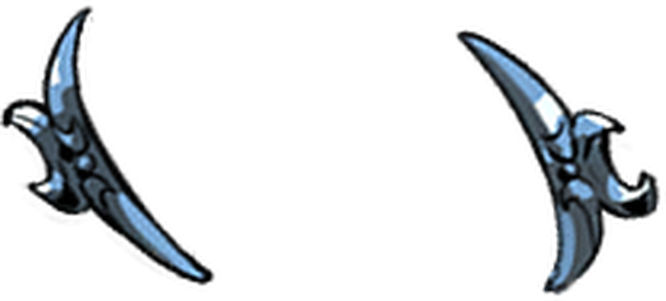
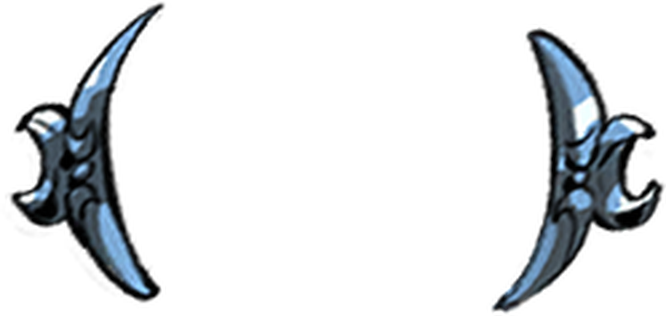
Un-warp the reward marker properly, measuring the squash off the disc
The wings were still warped. Laying the pair flat fixed the angle between the
two crescents and nothing about the crescents themselves, which are drawn
squashed for the plane they lie on like everything else in a world object.

There is no plain 2D copy of any of it in the game, and there was never going
to be: it is a world object and it ships the way it is drawn.

It is recoverable exactly, because the disc is a circle in truth, so whatever
ellipse it ships as is the transform. Second moments of its own alpha put the
major axis at 61.7 degrees with the minor at 0.631 of it, and undoing that,
R(t) diag(1, r) R(-t), takes the disc from 0.631 to 0.999. That is a circle to
three places, and it is the check that the transform is right rather than
merely plausible.

The wings take the same inverse because they are on the same plane. That is
what fixes the shape of each crescent rather than only the angle between them,
and it leaves the pair on a 12.7 degree axis, so one rotation finishes the
job. They come out as the mirrored pair a real Exit shows.

Neither number is hardcoded. Both are measured off the shipped alpha on every
run and the check is printed, so a patch that redraws the marker is followed
rather than fought. The moment maths is a closed form for a symmetric 2x2, so
this needs no linear algebra dependency.

Also worth recording: a front-facing cousin was on the shelf the whole time.
chrome/circle-filigree.png is UnlockTextCircleBacking out of GUI.pkg, and its
[…]

Changed region(s): [[0.6607, 0.0897, 1.0, 0.9867], [0.0, 0.0, 0.3303, 0.9568]]

diff --git a/scripts/reward-frame.ts b/scripts/reward-frame.ts
@@ -22,16 +22,28 @@
  * package. `deppth2`'s `-e` filter does not match these entries by any name
  * tried, so the package is extracted whole into `extracted/scriptsbase/`.
  *
- * **Both pieces are drawn in isometric and both have to be undone.** The disc
- * is an ellipse, 122 by 162, so it is a circle seen at an angle; squaring the
- * crop makes it round. The wings sit on an axis 25.7 degrees below horizontal,
- * measured from their own alpha rather than hardcoded, and on a real Exit they
- * read as left and right of the disc. Laying them flat is what makes the
- * composed marker look like the thing in the game.
+ * **Every piece ships pre-warped, and the warp has to be measured rather than
+ * guessed.** These are world objects, so the art is drawn already squashed for
+ * the plane it lies on, and there is no plain 2D copy of it anywhere.
+ *
+ * The disc is the key that unlocks the rest. It is a circle in truth, so
+ * whatever ellipse it ships as *is* the transform. Second moments of its own
+ * alpha put the major axis at 61.7 degrees with a minor at 0.631 of it, and
+ * undoing that, R(t) diag(1, r) R(-t), takes the disc from 0.631 to 0.999.
+ * That is a circle to three places, and it is the check that the transform is
+ * right rather than merely plausible.
+ *
+ * The wings then take the same inverse, because they lie on the same plane,
+ * and that is what fixes the shape of each crescent rather than just the angle
+ * between them. It leaves the pair on a 12.7 degree axis, so one rotation lays
+ * them flat and they come out as the mirrored pair a real Exit shows.
+ *
+ * Nothing here is hardcoded. Both numbers are measured off the shipped alpha
+ * on every run, so a patch that redraws the marker is followed, not fought.
  *
  * That is why this is its own script rather than a line in `scripts/chrome.ts`:
- * the shelf takes files as they are, and this one has to be undistorted,
- * punched through and recomposed first.
+ * the shelf takes files as they are, and this one has to be un-warped, punched
+ * through and recomposed first.
  */
 
 import { existsSync, mkdirSync, writeFileSync } from 'node:fs'
@@ -53,58 +65,95 @@ if (!existsSync(FX)) {
 
 const script = `
 from PIL import Image, ImageDraw
-import glob, os, json
+import glob, math, os, json
 
 FX = ${JSON.stringify(FX)}
 OUT = ${JSON.stringify(OUT)}
 SIZE = 512
 report = []
 
-def disc_ring(frame_path, punch=0.90):
-    """The shimmering disc, squared up and punched through.
-
-    Cropping to the alpha bbox and resizing that crop to a square is what
-    undoes the isometric squash: the bbox is the ellipse, so forcing it to
-    1:1 makes the ellipse a circle. The interior is a dark fill meant to sit
-    over game world art, and it would cover a portrait, so it goes.
-    """
-    im = Image.open(frame_path).convert("RGBA")
-    im = im.crop(im.getchannel("A").getbbox()).resize((SIZE, SIZE), Image.LANCZOS)
-    hole = Image.new("L", (SIZE, SIZE), 255)
-    ImageDraw.Draw(hole).ellipse(
-        (SIZE*(1-punch)/2, SIZE*(1-punch)/2, SIZE*(1+punch)/2, SIZE*(1+punch)/2), fill=0)
-    im.putalpha(Image.composite(im.getchannel("A"), Image.new("L", (SIZE, SIZE), 0), hole))
-    return im
-
-def wing_axis(im):
-    """The angle the two crescents sit at, from their own alpha.
-
-    They are drawn diagonally because the game renders them on the same
-    isometric plane as the disc; on a door they read horizontal. Splitting the
-    sprite down the middle and taking each half's alpha-weighted centroid gives
-    the axis without hardcoding a number that a patch could move.
-    """
+def moments(im):
+    """Centroid and second moments of an image's alpha, weighted by it."""
     a = im.getchannel("A")
     w, h = im.size
     px = a.load()
-    def centroid(x0, x1):
-        sx = sy = n = 0
-        for y in range(h):
-            for x in range(x0, x1):
-                v = px[x, y]
-                if v > 30:
-                    sx += x*v; sy += y*v; n += v
-        return (sx/n, sy/n) if n else None
-    left, right = centroid(0, w//2), centroid(w//2, w)
-    if not left or not right:
-        return 0.0
-    import math
-    return math.degrees(math.atan2(right[1]-left[1], right[0]-left[0]))
+    n = sx = sy = 0.0
+    for y in range(h):
+        for x in range(w):
+            v = px[x, y]
+            if v > 30:
+                n += v; sx += x * v; sy += y * v
+    if n == 0:
+        return 0.0, 0.0, 0.0, 0.0, 0.0
+    cx, cy = sx / n, sy / n
+    mxx = myy = mxy = 0.0
+    for y in range(h):
+        for x in range(w):
+            v = px[x, y]
+            if v > 30:
+                dx, dy = x - cx, y - cy
+                mxx += v * dx * dx; myy += v * dy * dy; mxy += v * dx * dy
+    return cx, cy, mxx / n, myy / n, mxy / n
 
-def wings(path, width):
+def ellipse_of(im):
+    """The axis angle and minor/major ratio of an image's alpha.
+
+    Closed form for a symmetric 2x2, so this needs no linear algebra library.
+    """
+    _, _, mxx, myy, mxy = moments(im)
+    theta = 0.5 * math.atan2(2 * mxy, mxx - myy)
+    half = (mxx + myy) / 2
+    root = math.sqrt(((mxx - myy) / 2) ** 2 + mxy * mxy)
+    major = math.sqrt(max(half + root, 1e-9))
+    minor = math.sqrt(max(half - root, 1e-9))
+    return theta, minor / major
+
+def unwarp(im, theta, r, pad=2.0):
+    """Undo the isometric squash. Forward is R(t) diag(1, r) R(-t).
+
+    PIL's AFFINE maps output back to input, which is the forward transform, so
+    the matrix goes in as it stands rather than inverted.
+    """
+    ct, st = math.cos(theta), math.sin(theta)
+    a = ct * ct + r * st * st
+    b = ct * st - r * ct * st
+    d = b
+    e = st * st + r * ct * ct
+    W, H = round(im.width * pad), round(im.height * pad)
+    c = im.width / 2 - (a * W / 2 + b * H / 2)
+    f = im.height / 2 - (d * W / 2 + e * H / 2)
+    return im.transform((W, H), Image.AFFINE, (a, b, c, d, e, f), resample=Image.BICUBIC)
+
+def pair_axis(im):
+    """The angle between the two crescents, from each half's alpha centroid."""
+    half = im.width // 2
+    left = moments(im.crop((0, 0, half, im.height)))
+    right = moments(im.crop((half, 0, im.width, im.height)))
+    return math.degrees(math.atan2(right[1] - left[1], (right[0] + half) - left[0]))
+
+def disc_ring(frame_path, theta, r, punch=0.90):
+    """The shimmering disc, un-warped and punched through.
+
+    The interior is a dark fill meant to sit over game world art. It would
+    cover a portrait, so it goes.
+    """
+    im = Image.open(frame_path).convert("RGBA")
+    im = unwarp(im, theta, r)
+    im = im.crop(im.getchannel("A").getbbox()).resize((SIZE, SIZE), Image.LANCZOS)
+    if punch <= 0:
+        return im
+    hole = Image.new("L", (SIZE, SIZE), 255)
+    ImageDraw.Draw(hole).ellipse(
+        (SIZE * (1 - punch) / 2, SIZE * (1 - punch) / 2,
+         SIZE * (1 + punch) / 2, SIZE * (1 + punch) / 2), fill=0)
+    im.putalpha(Image.composite(im.getchannel("A"), Image.new("L", (SIZE, SIZE), 0), hole))
+    return im
+
+def wings(path, theta, r, width):
+    """The two crescents, un-warped and then laid flat."""
     im = Image.open(path).convert("RGBA")
-    # Lay them flat first, then crop, or the crop keeps the diagonal's slack.
-    im = im.rotate(wing_axis(im), resample=Image.BICUBIC, expand=True)
+    im = unwarp(im, theta, r)
+    im = im.rotate(pair_axis(im), resample=Image.BICUBIC, expand=True)
     im = im.crop(im.getchannel("A").getbbox())
     return im.resize((width, round(im.height * width / im.width)), Image.LANCZOS)
 
@@ -117,6 +166,15 @@ if not frames:
 # still has to stand for the whole loop, so it should not be caught mid dip.
 still = frames[min(20, len(frames) - 1)]
 
+# The disc is a circle in truth, so the ellipse it ships as is the transform.
+THETA, RATIO = ellipse_of(Image.open(still).convert("RGBA"))
+report.append({
+    "name": "measured",
+    "theta": round(math.degrees(THETA), 1),
+    "ratio": round(RATIO, 3),
+    "check": round(ellipse_of(disc_ring(still, THETA, RATIO, punch=0))[1], 3),
+})
+
 for name, wing_src in [("run", "RoomRewardFrame-Run.png"), ("meta", "RoomRewardFrame-Meta.png")]:
     wing_path = os.path.join(FX, "RoomRewardAvailable-Back", wing_src)
     if not os.path.exists(wing_path):
@@ -125,10 +183,10 @@ for name, wing_src in [("run", "RoomRewardFrame-Run.png"), ("meta", "RoomRewardF
 
     canvas = round(SIZE * 1.34)
     marker = Image.new("RGBA", (canvas, canvas), (0, 0, 0, 0))
-    marker.alpha_composite(disc_ring(still), ((canvas - SIZE)//2, (canvas - SIZE)//2))
+    marker.alpha_composite(disc_ring(still, THETA, RATIO), ((canvas - SIZE)//2, (canvas - SIZE)//2))
     # Wide enough that the crescents sit outside the disc, which is where the
     # game puts them. At 1.14 they crossed the portrait inside it.
-    w = wings(wing_path, round(SIZE * 1.30))
+    w = wings(wing_path, THETA, RATIO, round(SIZE * 1.30))
     marker.alpha_composite(w, ((canvas - w.width)//2, (canvas - w.height)//2))
 
     suffix = "" if name == "run" else "-meta"
@@ -164,10 +222,21 @@ const report = JSON.parse(run.stdout.trim().split('\n').at(-1) ?? '[]') as {
   size?: [number, number]
   bytes?: number
   error?: string
+  /** the 'measured' row: the transform this run read off the shipped art */
+  theta?: number
+  ratio?: number
+  check?: number
 }[]
 
 console.log("the game's own Exit reward marker:")
 for (const entry of report) {
+  if (entry.name === 'measured') {
+    console.log(
+      `  squash measured off the disc: ${entry.theta} degrees, ratio ${entry.ratio}. ` +
+        `It reads ${entry.check} after, and 1.0 is a circle`,
+    )
+    continue
+  }
   if (entry.error) console.log(`  ${entry.name}: ${entry.error}`)
   else
     console.log(

diff --git a/src/ui/frames.ts b/src/ui/frames.ts
@@ -133,7 +133,7 @@ export const FRAMES: FrameOption[] = [
     note: 'The same marker with the disc taken off, so only the wings read',
     file: 'frames/reward-wings.png',
     width: 1.5,
-    aspect: '666 / 301',
+    aspect: '666 / 316',
     opacity: 0.95,
   },
 

diff --git a/assets/README.md b/assets/README.md
@@ -282,12 +282,30 @@ mistakes: a negative result proved something about the search.
 exact one `deppth2 ls` prints, so the package comes out whole into
 `extracted/scriptsbase/`. It is 6,784 stills and takes several minutes.
 
-**The disc is an ellipse, 122 by 162,** because the game draws it in isometric: it is a
-circle seen at an angle. `npm run reward-frame` crops to the alpha bbox and resizes that
-crop to a square, which is what turns the ellipse back into a circle, punches the dark
-interior out so it can sit over a portrait, and composes the wings on top. Output is
-`frames/reward-marker.png`, `frames/reward-wings.png`, both `-meta` variants, and
-`chrome/reward-glow.png`.
+**There is no plain 2D copy of it, and there was never going to be.** These are world
+objects: the art ships already squashed for the plane it lies on, and the game draws it as
+it is. Nothing in any package holds an un-warped version.
+
+It is recoverable exactly, though, because **the disc is a circle in truth, so whatever
+ellipse it ships as is the transform.** Second moments of its own alpha put the major axis
+at 61.7 degrees with the minor at 0.631 of it. Undoing that, `R(t) diag(1, r) R(-t)`, takes
+the disc from 0.631 to **0.999**, which is a circle to three places and is the check that
+the transform is right rather than merely plausible.
+
+The wings take the same inverse because they lie on the same plane, and that is what fixes
+the shape of each crescent rather than just the angle between them. It leaves the pair on a
+12.7 degree axis, so one rotation lays them flat, and they come out as the mirrored pair a
+real Exit shows. Neither number is hardcoded: both are measured off the shipped alpha on
+every run, so a patch that redraws the marker gets followed rather than fought.
+
+`npm run reward-frame` writes `frames/reward-marker.png`, `frames/reward-wings.png`, both
+`-meta` variants, and `chrome/reward-glow.png`.
+
+**A front-facing cousin does exist**, and it was already on this shelf:
+`chrome/circle-filigree.png`, which is `UnlockTextCircleBacking.png` out of `GUI.pkg`. Its
+disc measures 260 by 251, so it really is round, because it is a UI element rather than a
+world one. Same motif, a plate with ornaments either side; different ornament, gold
+scrollwork rather than silver crescents.
 
 ### Boon icons are 90x90 and there is no larger copy
 
